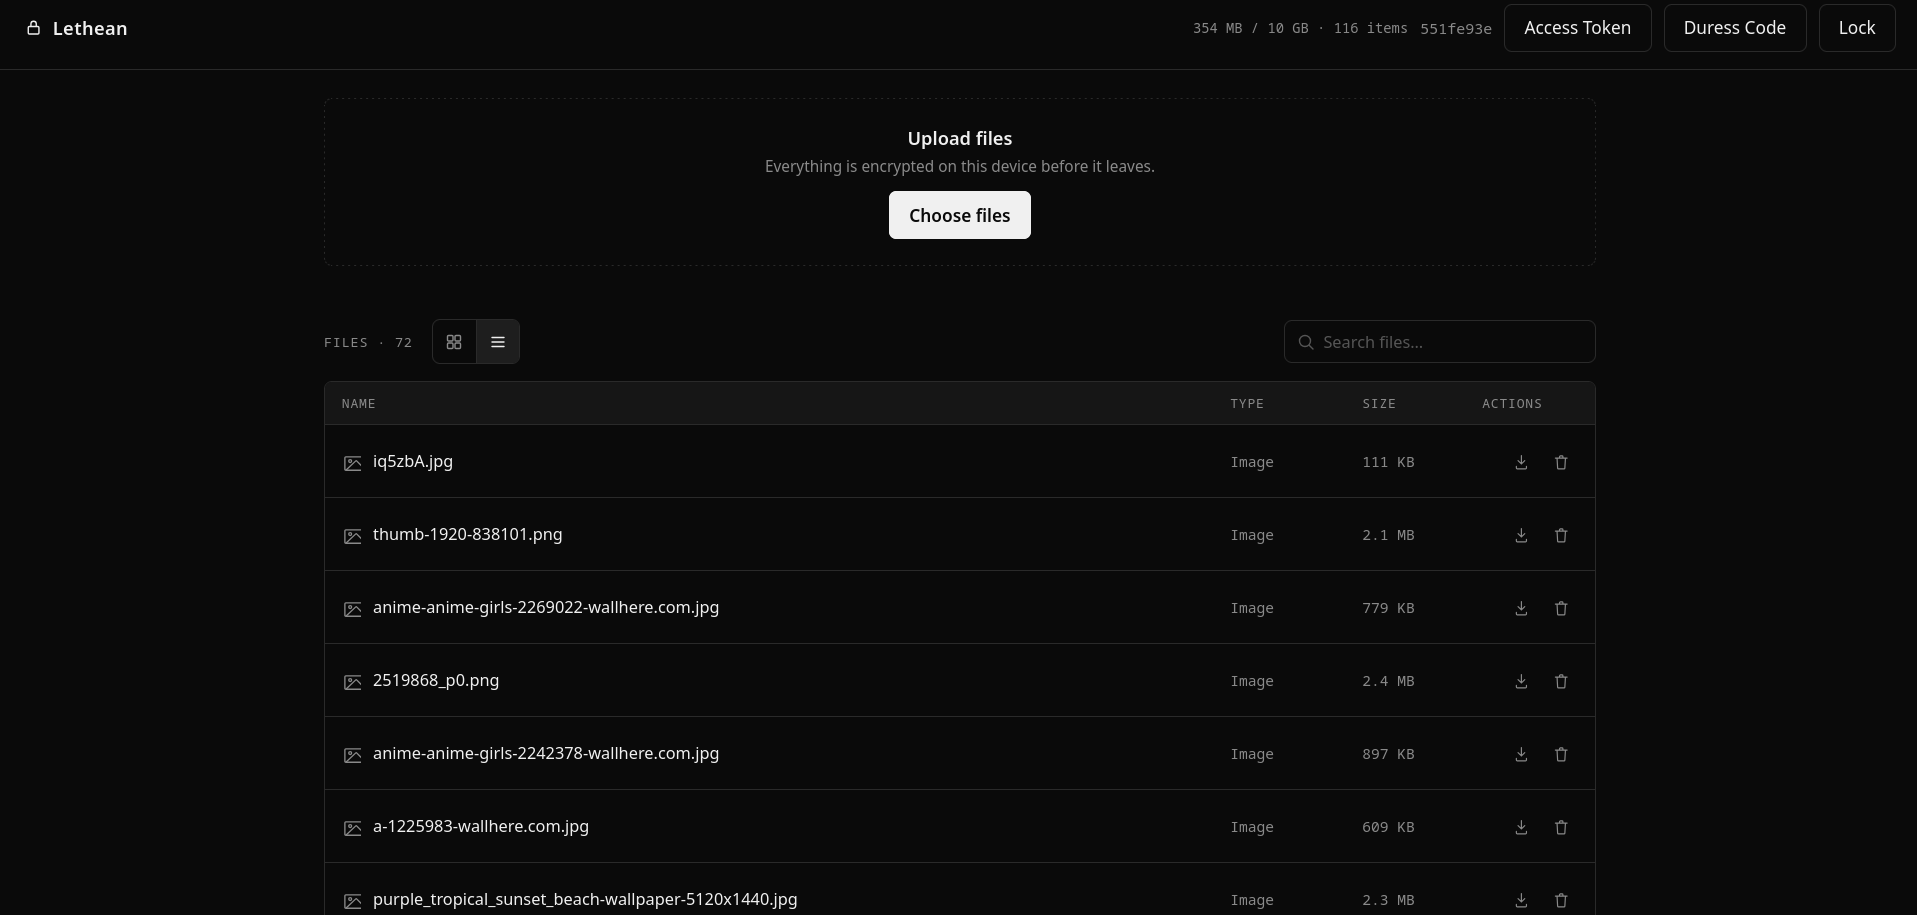
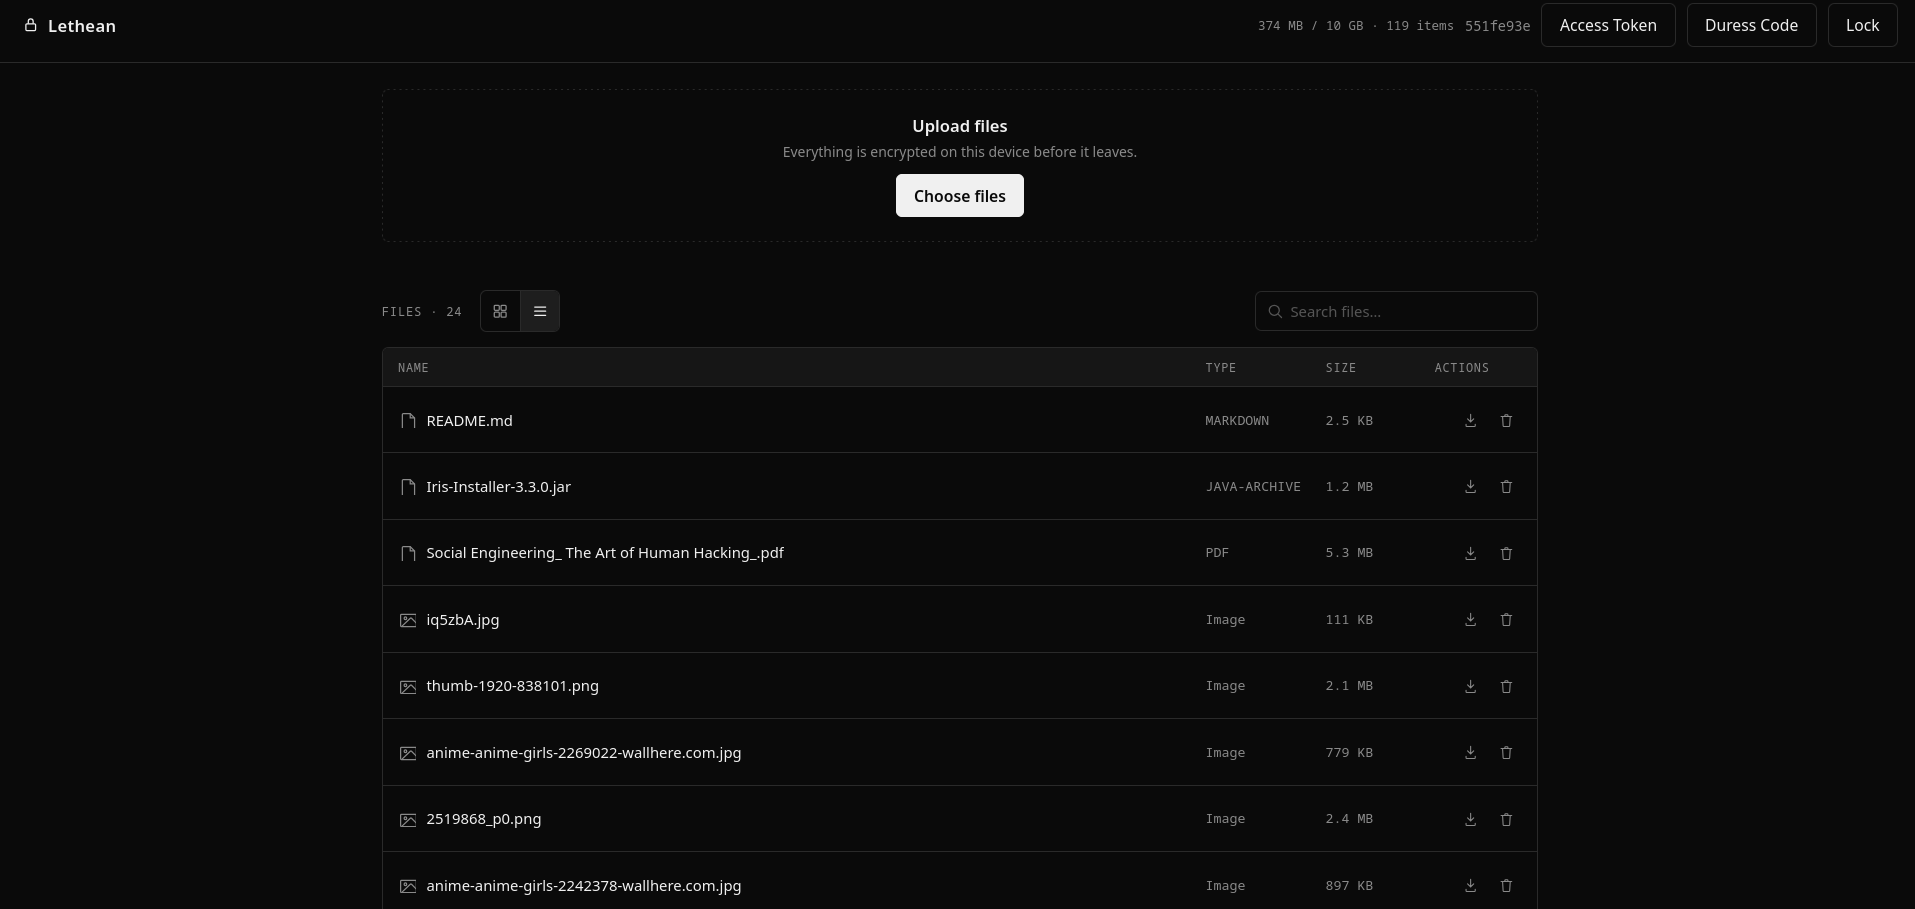
Support more file types

diff --git a/client/app.js b/client/app.js
@@ -123,6 +123,39 @@ function fileKind(mime) {
   return 'other';
 }
 
+const TEXT_PREVIEW_MIME_WHITELIST = new Set([
+  'application/json',
+  'application/xml',
+  'application/javascript',
+  'application/x-javascript',
+  'application/x-yaml',
+  'application/ld+json',
+  'application/x-sh',
+  'application/toml',
+]);
+
+const TEXT_PREVIEW_EXTENSIONS = new Set([
+  'txt', 'md', 'markdown', 'csv', 'tsv', 'json', 'xml', 'yaml', 'yml', 'ini', 'conf', 'cfg', 'log',
+  'js', 'mjs', 'cjs', 'ts', 'tsx', 'jsx', 'py', 'rb', 'go', 'rs', 'java', 'c', 'h', 'cpp', 'hpp', 'cs',
+  'php', 'sh', 'bash', 'zsh', 'sql', 'html', 'htm', 'css', 'scss', 'less', 'vue', 'svelte', 'toml',
+  'env', 'gitignore', 'gitattributes', 'dockerfile', 'makefile', 'gemfile', 'rakefile',
+]);
+
+function fileExtension(name) {
+  const clean = (name || '').toLowerCase();
+  const dot = clean.lastIndexOf('.');
+  return dot > 0 ? clean.slice(dot + 1) : clean.replace(/^\./, '');
+}
+
+function previewKind(meta) {
+  const mime = (meta?.mime || '').toLowerCase();
+  if (mime === 'application/pdf') return 'pdf';
+  if (mime.startsWith('audio/')) return 'audio';
+  if (mime.startsWith('text/') || TEXT_PREVIEW_MIME_WHITELIST.has(mime)) return 'text';
+  if (TEXT_PREVIEW_EXTENSIONS.has(fileExtension(meta?.name))) return 'text';
+  return null;
+}
+
 function decryptedSize(record, meta) {
   if (typeof meta?.unpaddedSize === 'number') return meta.unpaddedSize;
   return record?.size ?? 0;
@@ -695,13 +728,17 @@ function renderListRow(record) {
   return row;
 }
 
+async function getDecryptedBytes(record) {
+  const fileKeyRaw = fileKeyCache.get(record.id);
+  const ciphertext = await api.downloadContent(record.id);
+  const meta = metaCache.get(record.id);
+  return C.decryptContent(fileKeyRaw, record.content_iv, ciphertext, meta.compressed, meta.unpaddedSize);
+}
+
 async function getDecryptedUrl(record) {
   if (objectUrlCache.has(record.id)) return objectUrlCache.get(record.id);
-  const fileKeyRaw = fileKeyCache.get(record.id);
-  let ciphertext = await api.downloadContent(record.id);
   const meta = metaCache.get(record.id);
-  let bytes = await C.decryptContent(fileKeyRaw, record.content_iv, ciphertext, meta.compressed, meta.unpaddedSize);
-  ciphertext = null;
+  let bytes = await getDecryptedBytes(record);
   const blob = new Blob([bytes], { type: meta.mime });
   bytes = null;
   const url = URL.createObjectURL(blob);
@@ -713,11 +750,15 @@ async function getDecryptedUrl(record) {
 const isCoarsePointerDevice = typeof window.matchMedia === 'function'
   && window.matchMedia('(pointer: coarse)').matches;
 const MOBILE_INLINE_VIDEO_LIMIT_BYTES = 150 * 1024 * 1024;
+const MOBILE_INLINE_PDF_LIMIT_BYTES = 150 * 1024 * 1024;
+const TEXT_PREVIEW_MAX_BYTES = 2 * 1024 * 1024;
 
 function isUnsafeToPreviewInline(record, meta) {
-  return isCoarsePointerDevice
-    && fileKind(meta?.mime) === 'video'
-    && decryptedSize(record, meta) > MOBILE_INLINE_VIDEO_LIMIT_BYTES;
+  if (!isCoarsePointerDevice) return false;
+  const size = decryptedSize(record, meta);
+  if (fileKind(meta?.mime) === 'video' && size > MOBILE_INLINE_VIDEO_LIMIT_BYTES) return true;
+  if (previewKind(meta) === 'pdf' && size > MOBILE_INLINE_PDF_LIMIT_BYTES) return true;
+  return false;
 }
 
 function mediaRecords() {
@@ -735,20 +776,35 @@ async function openTile(fileId) {
   if (!record || !meta) return;
 
   const kind = fileKind(meta.mime);
+  const pKind = kind === 'other' ? previewKind(meta) : null;
   const skipInlinePreview = isUnsafeToPreviewInline(record, meta);
+  const textTooLarge = pKind === 'text' && decryptedSize(record, meta) > TEXT_PREVIEW_MAX_BYTES;
+
+  if (kind === 'other' && pKind && !skipInlinePreview && !textTooLarge) {
+    await openOtherPreview(record, meta, pKind);
+    return;
+  }
 
   if (kind === 'other' || skipInlinePreview) {
     lightboxMediaList = [];
     lightboxIndex = -1;
     const tileEl = boxGrid.querySelector(`[data-id="${fileId}"]`);
     tileEl?.classList.add('opening');
+    let note = '';
+    if (skipInlinePreview && kind === 'video') {
+      note = "This video is large \u2014 previewing it in-browser on a phone can crash the tab. Download it to watch in your device's player instead.";
+    } else if (skipInlinePreview && pKind === 'pdf') {
+      note = "This PDF is large \u2014 previewing it in-browser on a phone can be slow. Download it to view in your device's PDF viewer instead.";
+    } else if (textTooLarge) {
+      note = "This text file is large \u2014 download it to view the full contents.";
+    }
     showLightbox(`
       <div class="lightbox-generic">
         ${icon(kind === 'video' ? 'video' : 'file')}
-        <p style="margin:12px 0 0;color:var(--text);font-family:var(--font-mono)">${escapeHtml(meta.name)}</p>
-        <p style="font-size:0.8rem;margin-top:6px">${formatBytes(decryptedSize(record, meta))} \u00b7 encrypted</p>
-        ${skipInlinePreview ? `<p style="font-size:0.78rem;margin-top:10px;color:var(--dim)">This video is large \u2014 previewing it in-browser on a phone can crash the tab. Download it to watch in your device's player instead.</p>` : ''}
-        <button class="btn-primary" id="lightbox-download" style="margin-top:18px">Decrypt &amp; download</button>
+        <p class="lightbox-generic-name">${escapeHtml(meta.name)}</p>
+        <p class="lightbox-generic-size">${formatBytes(decryptedSize(record, meta))} \u00b7 encrypted</p>
+        ${note ? `<p class="lightbox-generic-note">${note}</p>` : ''}
+        <button class="btn-primary lightbox-generic-btn" id="lightbox-download">Decrypt &amp; download</button>
       </div>
     `);
     $('lightbox-download').addEventListener('click', () => downloadAndSave(record, meta));
@@ -759,6 +815,50 @@ async function openTile(fileId) {
   const list = mediaRecords();
   const index = list.findIndex((r) => r.id === fileId);
   await openMediaAt(list, index >= 0 ? index : 0);
+}
+
+async function openOtherPreview(record, meta, kind) {
+  lightboxMediaList = [];
+  lightboxIndex = -1;
+  const tileEl = boxGrid.querySelector(`[data-id="${record.id}"]`);
+  tileEl?.classList.add('decrypting');
+  showLightbox(`<div class="lightbox-content"><div class="spinner spinner-lg"></div></div>`, { keepMedia: true });
+
+  try {
+    let inner;
+    let objectUrl = null;
+
+    if (kind === 'text') {
+      const bytes = await getDecryptedBytes(record);
+      const text = new TextDecoder('utf-8', { fatal: false }).decode(bytes);
+      inner = `<pre class="lightbox-text" id="lightbox-media">${escapeHtml(text)}</pre>`;
+      const blob = new Blob([bytes], { type: meta.mime || 'text/plain' });
+      objectUrl = URL.createObjectURL(blob);
+      objectUrlCache.set(record.id, objectUrl);
+    } else {
+      objectUrl = await getDecryptedUrl(record);
+      inner = kind === 'pdf'
+        ? `<iframe src="${objectUrl}" id="lightbox-media" title="${escapeHtml(meta.name)}"></iframe>`
+        : `<audio src="${objectUrl}" controls autoplay id="lightbox-media"></audio>`;
+    }
+
+    showLightbox(`
+      <div class="lightbox-content lightbox-content-${kind}">
+        ${inner}
+        <div class="lightbox-meta">
+          <span class="fname">${escapeHtml(meta.name)}</span>
+          <button class="btn-icon" id="lightbox-download" title="Download" aria-label="Download">${icon('download')}</button>
+        </div>
+      </div>
+    `, { keepMedia: true });
+
+    $('lightbox-download').addEventListener('click', () => downloadAndSave(record, meta, objectUrl));
+  } catch (err) {
+    showToast("Couldn't decrypt that file. " + err.message, 'error');
+    closeLightbox();
+  } finally {
+    tileEl?.classList.remove('decrypting', 'opening');
+  }
 }
 
 async function openMediaAt(list, index) {
@@ -774,7 +874,7 @@ async function openMediaAt(list, index) {
 
   const tileEl = boxGrid.querySelector(`[data-id="${record.id}"]`);
   tileEl?.classList.add('decrypting');
-  showLightbox(`<div class="lightbox-content"><div class="spinner" style="width:32px;height:32px"></div></div>`, { keepMedia: true });
+  showLightbox(`<div class="lightbox-content"><div class="spinner spinner-lg"></div></div>`, { keepMedia: true });
 
   try {
     const url = await getDecryptedUrl(record);
@@ -834,8 +934,8 @@ function showLightbox(innerHtml, { keepMedia = false } = {}) {
 }
 
 function closeLightbox() {
-  const video = lightbox.querySelector('video');
-  if (video) video.pause();
+  const av = lightbox.querySelector('video, audio');
+  if (av) av.pause();
   if (document.fullscreenElement) document.exitFullscreen().catch(() => {});
   lightbox.classList.add('hidden');
   lightbox.classList.remove('has-nav');
@@ -985,12 +1085,18 @@ function createUploadRow(file) {
     <span class="name">${escapeHtml(file.name)}</span>
     <span class="status">Queued\u2026</span>
     <button type="button" class="btn-icon upload-cancel hidden" aria-label="Cancel upload" title="Cancel upload">${icon('close')}</button>
-    <div class="bar"><div class="bar-fill" style="width:0%"></div></div>
+    <div class="bar"><div class="bar-fill"></div></div>
   `;
   const rowItem = { el: row };
   uploadRows.push(rowItem);
   syncUploadQueueView();
   return rowItem;
+}
+
+function setBarProgress(barEl, fraction, { instant = false } = {}) {
+  const pct = `${Math.max(0, Math.min(100, Math.round(fraction * 100)))}%`;
+  barEl.getAnimations().forEach((a) => a.cancel());
+  barEl.animate([{ width: pct }], { duration: instant ? 1 : 200, fill: 'forwards', easing: 'ease' });
 }
 
 const RETRY_BASE_MS = 1000;
@@ -1056,9 +1162,9 @@ async function uploadOne(file, rowItem) {
     try {
       statusEl.textContent = attempt === 0 ? 'Uploading\u2026' : `Retrying\u2026 (attempt ${attempt + 1})`;
       statusEl.removeAttribute('title');
-      barEl.style.width = '0%';
+      setBarProgress(barEl, 0, { instant: true });
       await api.uploadFile(encrypted, (fraction) => {
-        barEl.style.width = `${Math.round(fraction * 100)}%`;
+        setBarProgress(barEl, fraction);
       }, controller.signal);
 
       row.classList.remove('error');

diff --git a/client/style.css b/client/style.css
@@ -261,7 +261,7 @@ main.vault {
 .upload-row .upload-cancel { width: 26px; height: 26px; flex-shrink: 0; }
 .upload-row .upload-cancel svg { width: 13px; height: 13px; }
 .upload-row .bar { height: 2px; background: var(--border); border-radius: 2px; overflow: hidden; position: absolute; left: 0; right: 0; bottom: 0; }
-.upload-row .bar-fill { height: 100%; background: var(--text); transition: width 0.2s ease; }
+.upload-row .bar-fill { height: 100%; width: 0; background: var(--text); }
 .upload-row.done .status { color: var(--text); }
 .upload-row.error .status { text-decoration: underline; }
 
@@ -565,6 +565,33 @@ main.vault {
   border-radius: 4px;
   background: #000;
 }
+.lightbox-content-pdf iframe {
+  width: min(900px, 84vw);
+  height: 78vh;
+  border: 1px solid var(--border);
+  border-radius: 4px;
+  background: #fff;
+}
+.lightbox-content-audio audio {
+  width: min(480px, 84vw);
+}
+.lightbox-text {
+  width: min(820px, 88vw);
+  max-height: 72vh;
+  overflow: auto;
+  margin: 0;
+  padding: 18px 20px;
+  border: 1px solid var(--border);
+  border-radius: 4px;
+  background: var(--surface);
+  color: var(--text);
+  font-family: var(--font-mono);
+  font-size: 0.82rem;
+  line-height: 1.55;
+  white-space: pre-wrap;
+  word-break: break-word;
+  text-align: left;
+}
 .lightbox-meta {
   display: flex;
   align-items: center;
@@ -584,6 +611,14 @@ main.vault {
   text-align: center;
   color: var(--dim);
 }
+.lightbox-generic-name {
+  margin: 12px 0 0;
+  color: var(--text);
+  font-family: var(--font-mono);
+}
+.lightbox-generic-size { font-size: 0.8rem; margin-top: 6px; }
+.lightbox-generic-note { font-size: 0.78rem; margin-top: 10px; color: var(--dim); }
+.lightbox-generic-btn { margin-top: 18px; }
 
 .settings-panel {
   background: var(--surface);
@@ -645,6 +680,7 @@ main.vault {
   animation: spin 0.7s linear infinite;
   flex-shrink: 0;
 }
+.spinner-lg { width: 32px; height: 32px; }
 @keyframes spin { to { transform: rotate(360deg); } }
 
 @media (max-width: 560px) {

diff --git a/client/index.html b/client/index.html
@@ -9,6 +9,7 @@
   style-src 'self';
   img-src 'self' blob: data:;
   media-src 'self' blob:;
+  frame-src blob:;
   connect-src 'self' http://localhost:8000;
   object-src 'none';
   base-uri 'self';

diff --git a/backend/main.py b/backend/main.py
@@ -125,7 +125,7 @@ async def add_security_headers(request, call_next):
         "Content-Security-Policy",
         "default-src 'self'; script-src 'self' 'wasm-unsafe-eval'; "
         "style-src 'self' 'unsafe-inline'; "
-        "img-src 'self' blob: data:; media-src 'self' blob:; "
+        "img-src 'self' blob: data:; media-src 'self' blob:; frame-src blob:; "
         "frame-ancestors 'none'; object-src 'none'; base-uri 'none'",
     )
     forwarded_proto = request.headers.get("x-forwarded-proto") if os.environ.get("TRUST_PROXY_HEADERS", "0") == "1" else None
